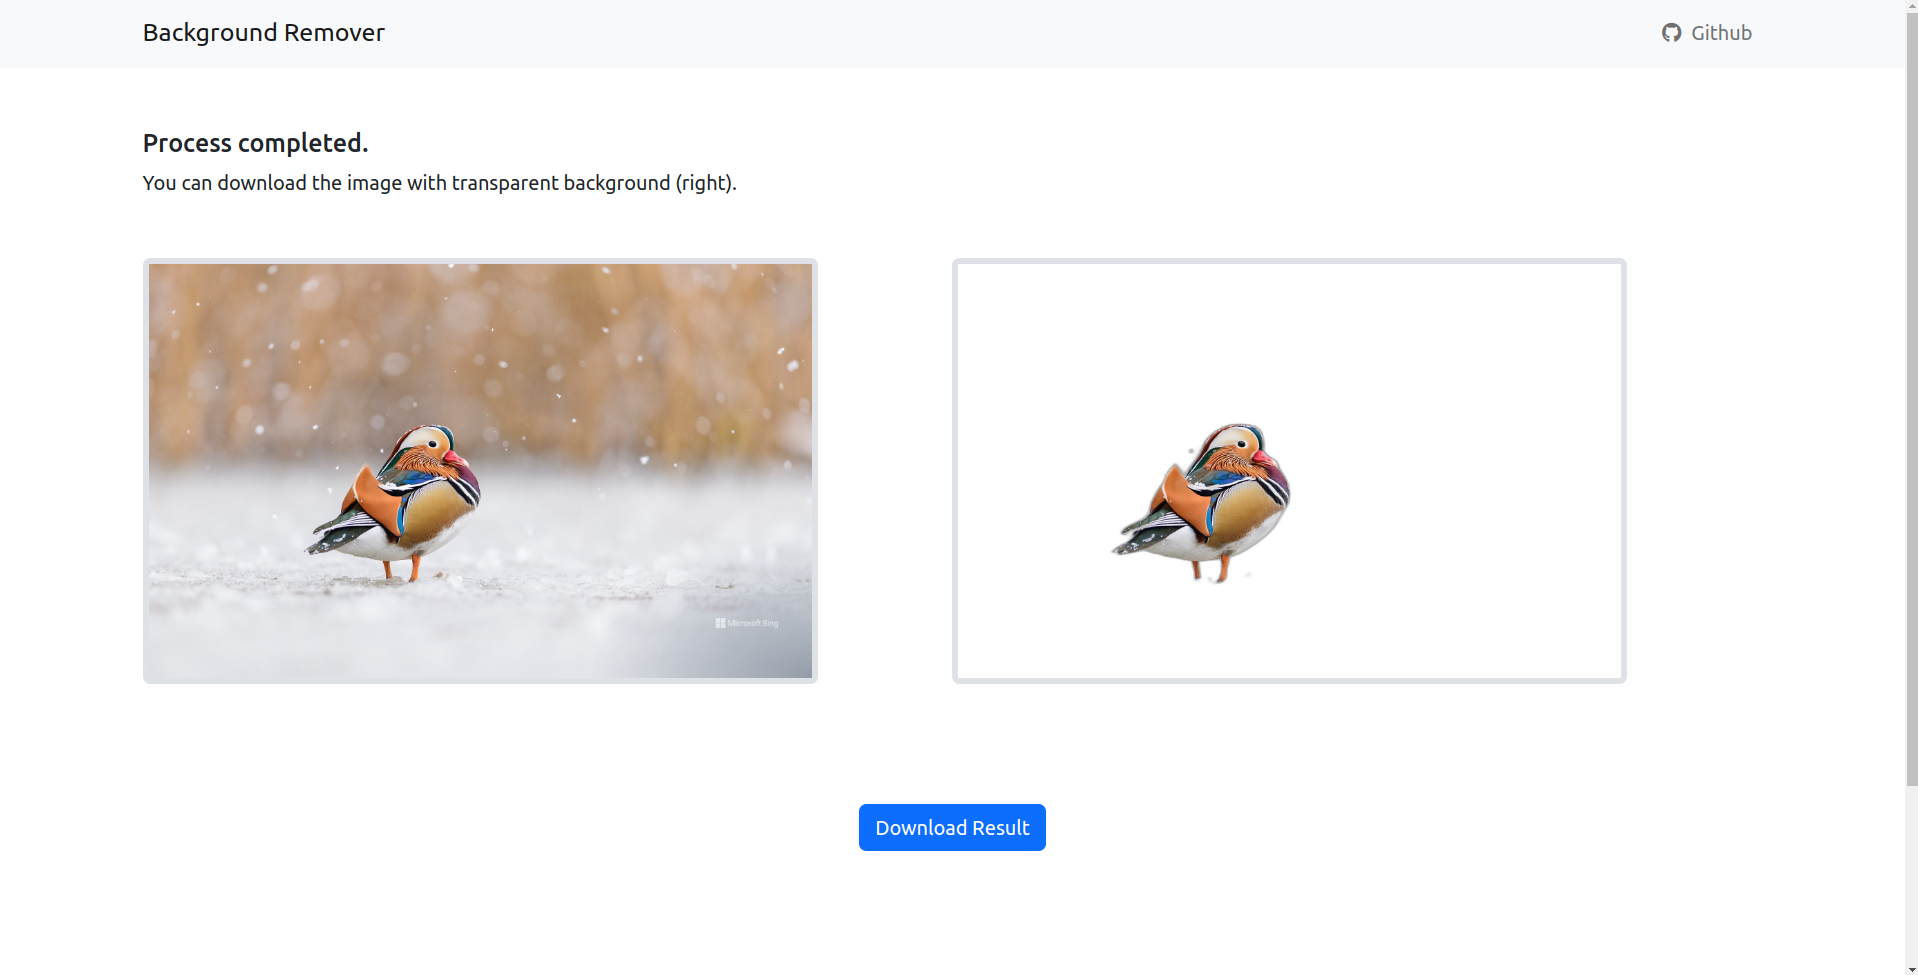
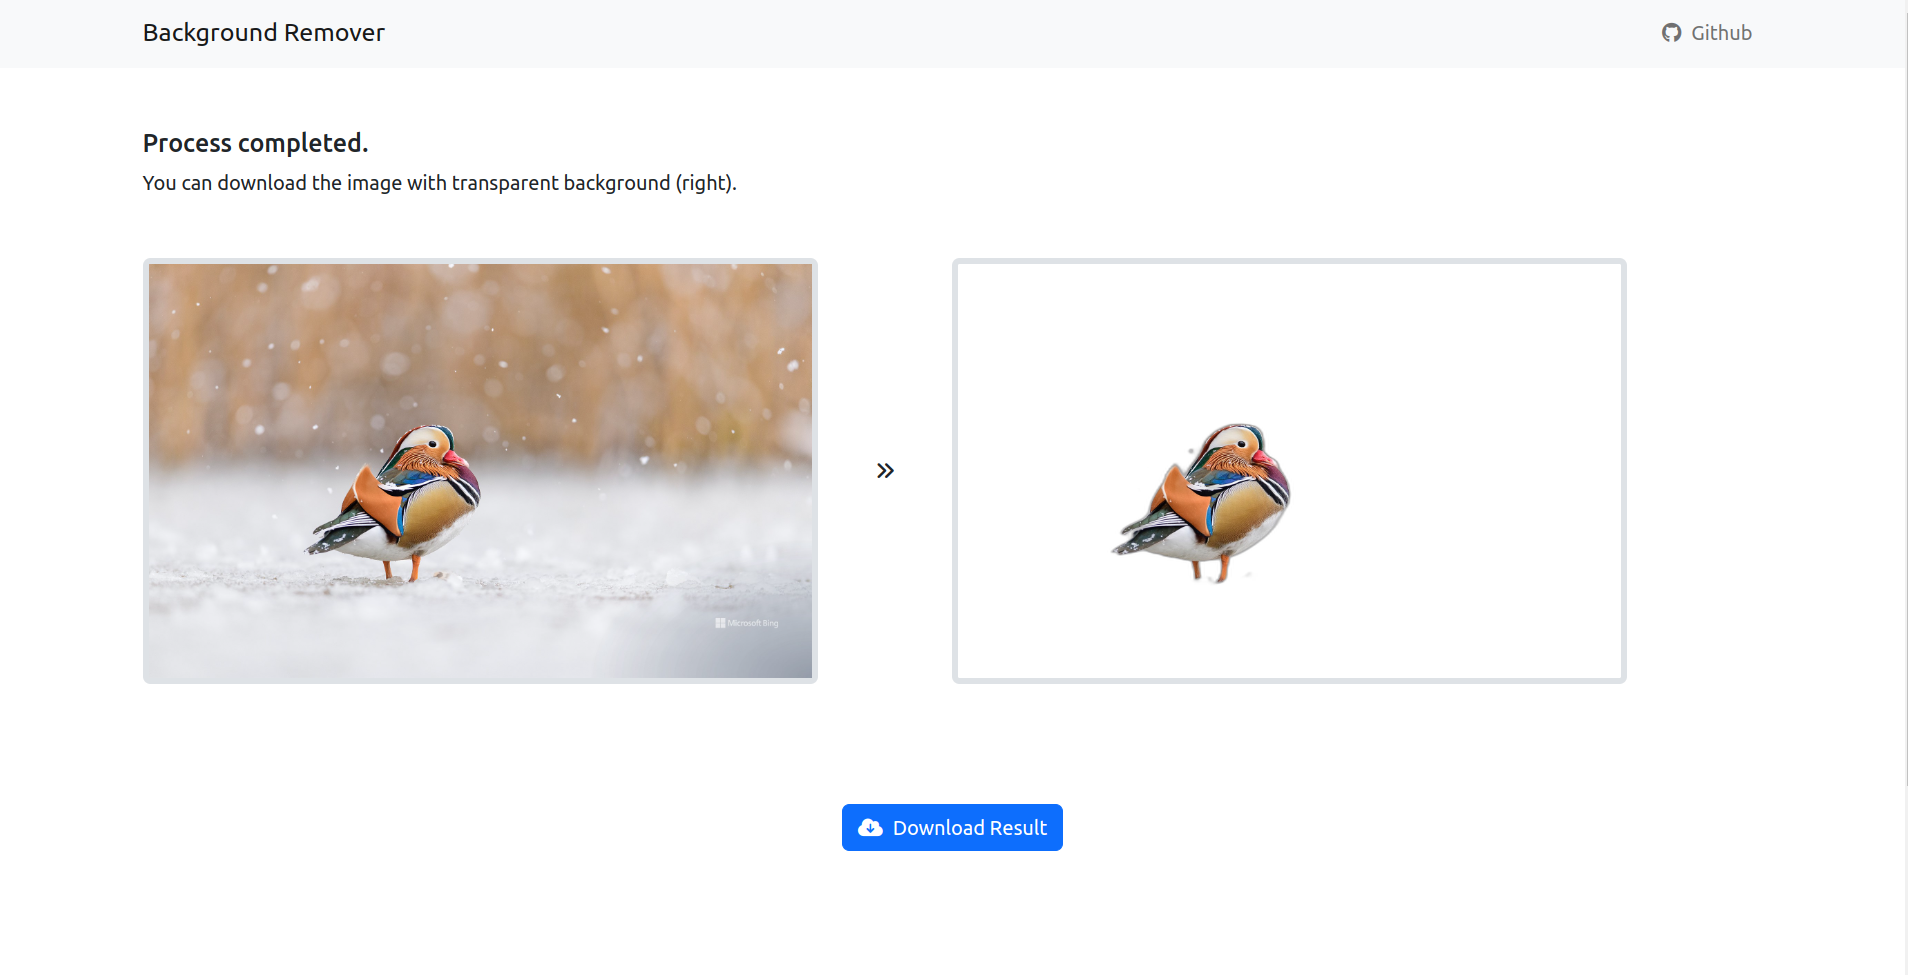
UI improvement

diff --git a/templates/result.html b/templates/result.html
@@ -1,15 +1,35 @@
 {% extends "base.html" %}
 {% load crispy_forms_tags %}
 
+{% block page_css %}
+<style>
+  img {
+    width: 100%;
+  }
+</style>
+
+{% endblock %}
+
 {% block content %}
 
-<div class="container py-5 col-lg-8 mx-auto">
-  <h5 class="mb-4">Process completed.</h5>
-  <div class="mt-5">
-    <!-- TODO: image style -->
-    <img src="{{activity.image.url}}" alt="" width="100">
-    <img src="{{activity.result.url}}" alt="" width="100">
+<div class="container py-5 mx-auto">
+  <h5>Process completed.</h5>
+  <span>You can download the image with transparent background (right).</span>
+  <div class="mt-5 d-flex flex-column flex-lg-row">
+    <div class="col-lg-5 border border-5 rounded">
+      <img src="{{activity.image.url}}" alt="">
+    </div>
+    <div class="col-lg-1 my-3 my-lg-0 d-flex align-items-center justify-content-center">
+      <span class="d-none d-lg-inline"><i class="fa-solid fa-angles-right"></i></span>
+      <span class="d-inline d-lg-none"><i class="fa-solid fa-angles-down"></i></span>
+    </div>
+    <div class="col-lg-5 border border-5 rounded">
+      <img src="{{activity.result.url}}" alt="">
+    </div>
   </div>
-  <a href="{{ activity.result.url }}" class="btn btn-primary my-5" download>Download</a>
+  <div class="mt-0 mt-lg-5 d-flex justify-content-center">
+    <a href="{{ activity.result.url }}" class="btn btn-primary my-5" download><i
+        class="fa-solid fa-cloud-arrow-down me-2"></i>Download Result</a>
+  </div>
 </div>
 {% endblock %}

diff --git a/templates/base.html b/templates/base.html
@@ -13,6 +13,8 @@
   <link rel="stylesheet" href="https://cdnjs.cloudflare.com/ajax/libs/font-awesome/6.3.0/css/all.min.css"
     integrity="sha512-SzlrxWUlpfuzQ+pcUCosxcglQRNAq/DZjVsC0lE40xsADsfeQoEypE+enwcOiGjk/bSuGGKHEyjSoQ1zVisanQ=="
     crossorigin="anonymous" referrerpolicy="no-referrer" />
+
+  {% block page_css %} {% endblock %}
 </head>
 
 <body>

diff --git a/templates/index.html b/templates/index.html
@@ -8,7 +8,7 @@
   <form method="post" enctype="multipart/form-data">
     {% csrf_token %}
     {{form|crispy}}
-    <button type="submit" class="btn btn-primary mt-2">Upload Image</button>
+    <button type="submit" class="btn btn-primary mt-3"><i class="fa-solid fa-cloud-arrow-up me-2"></i>Upload Image</button>
   </form>
 </div>
 {% endblock %}
